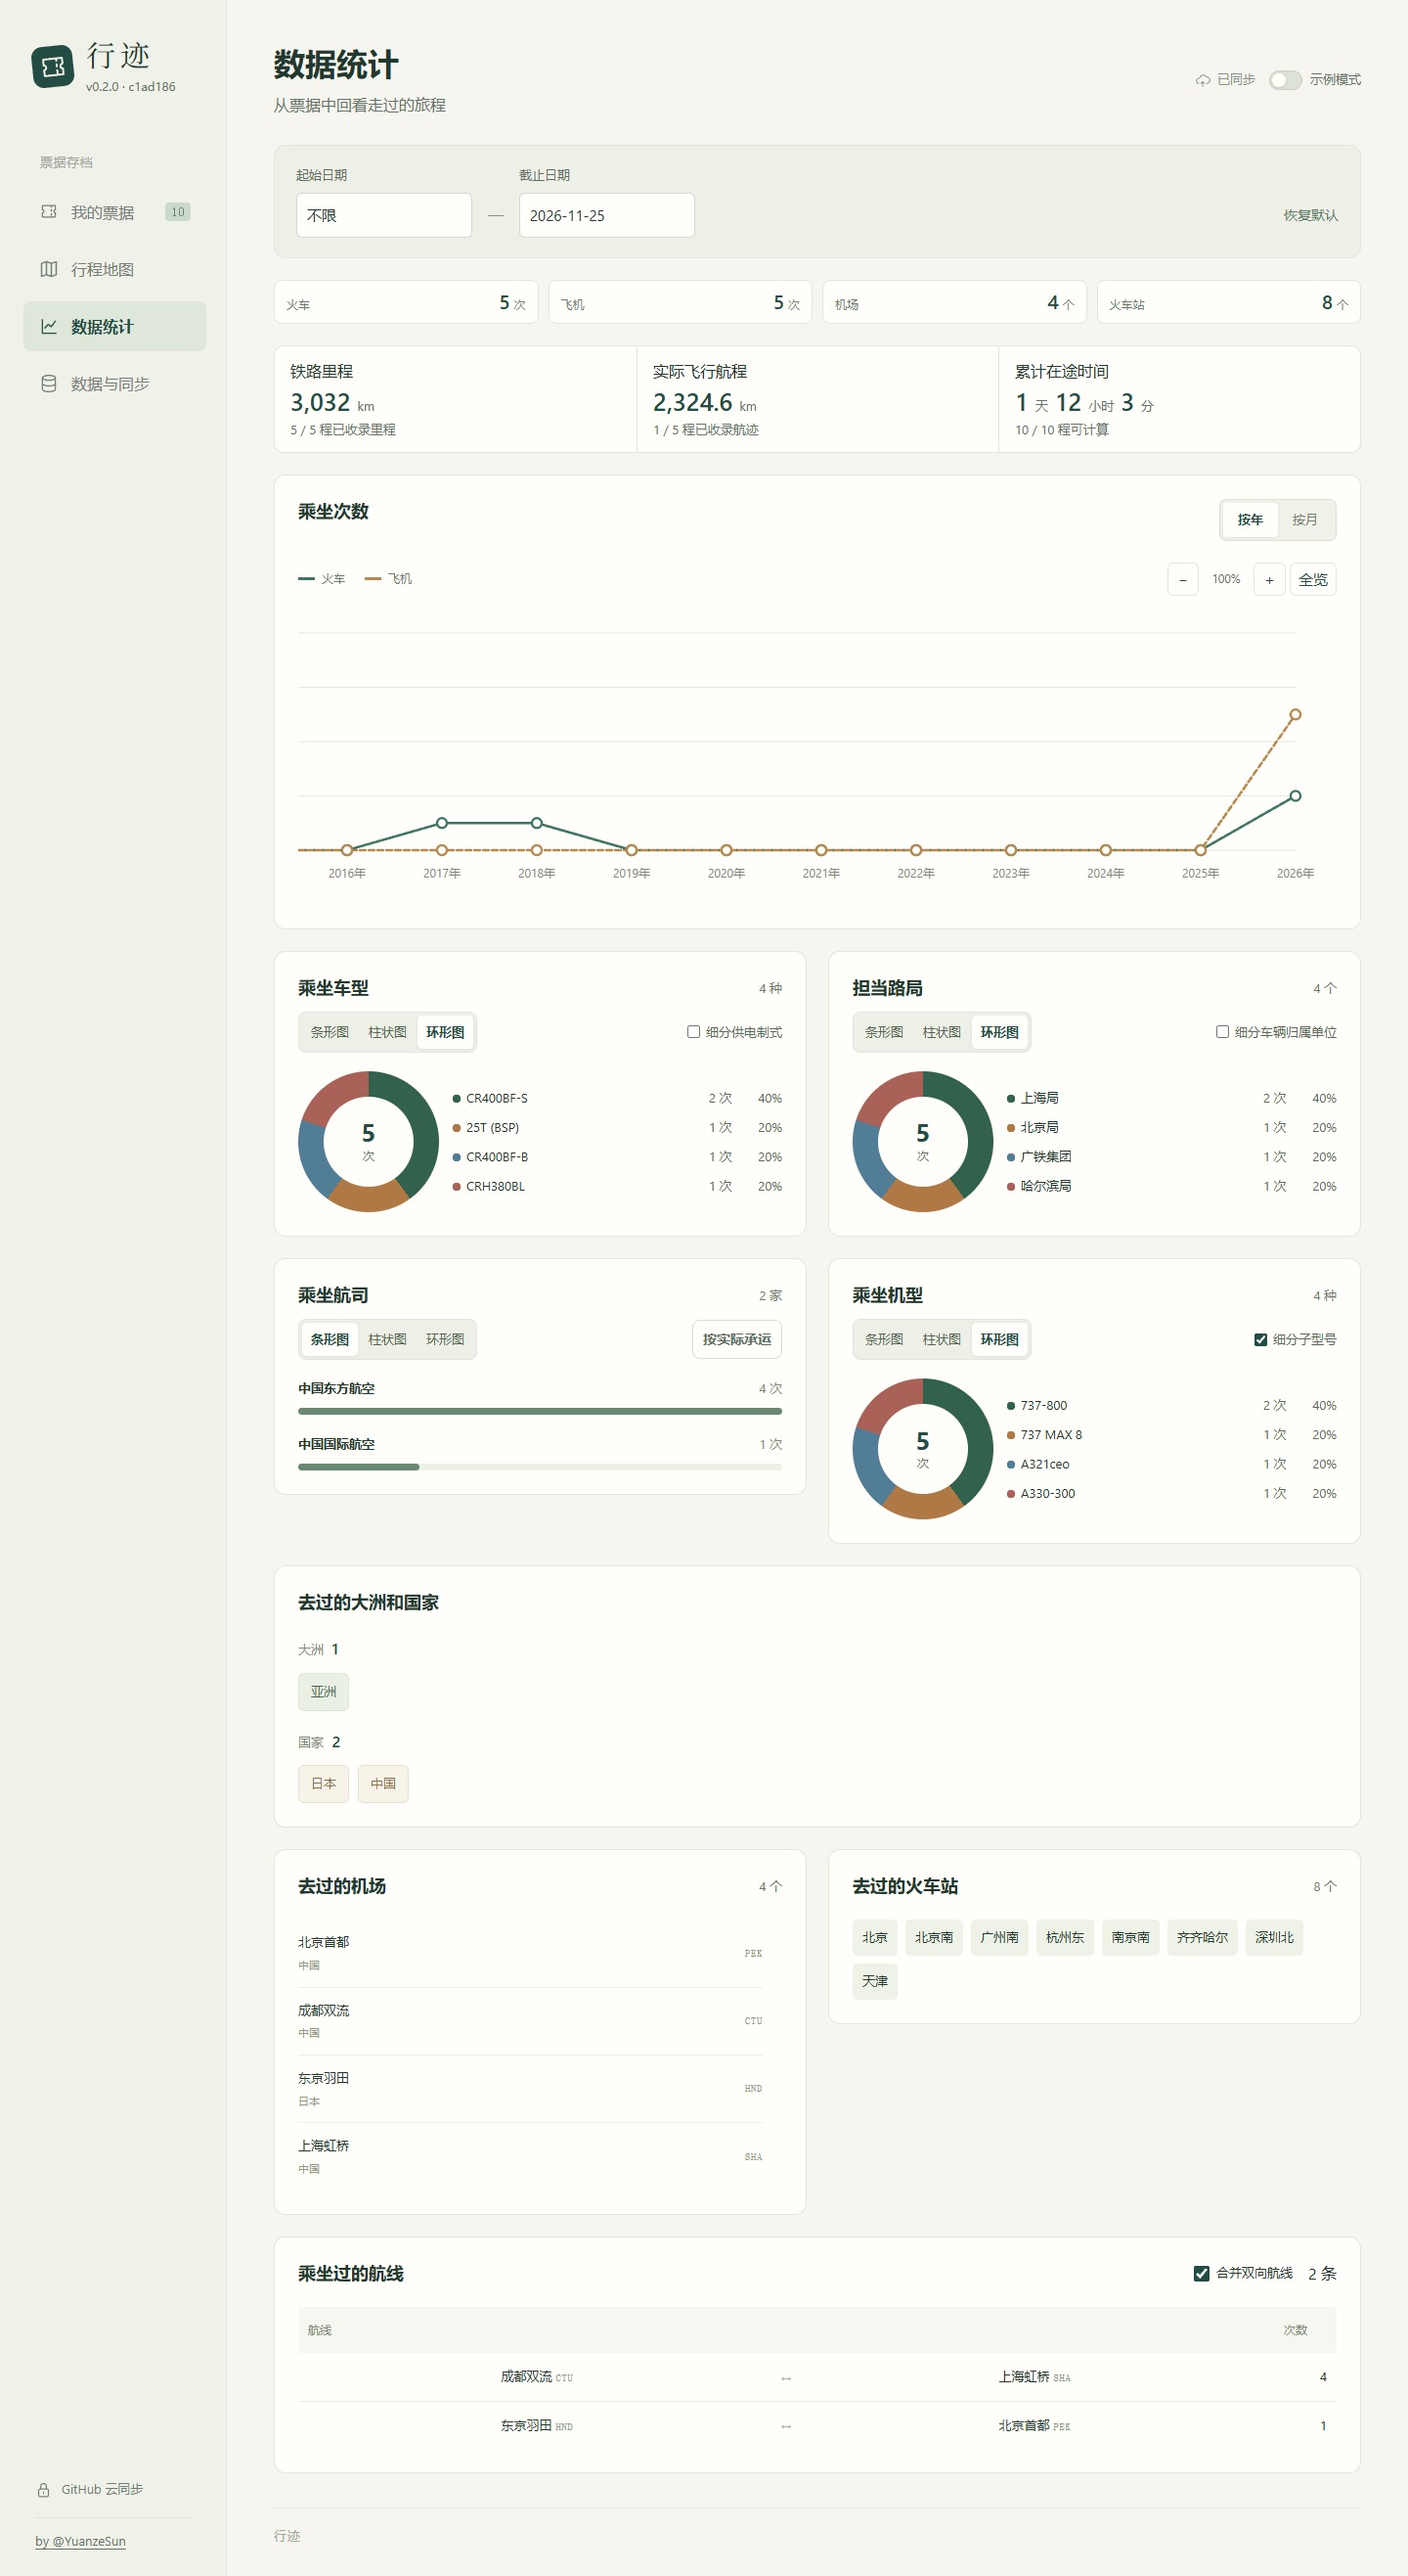
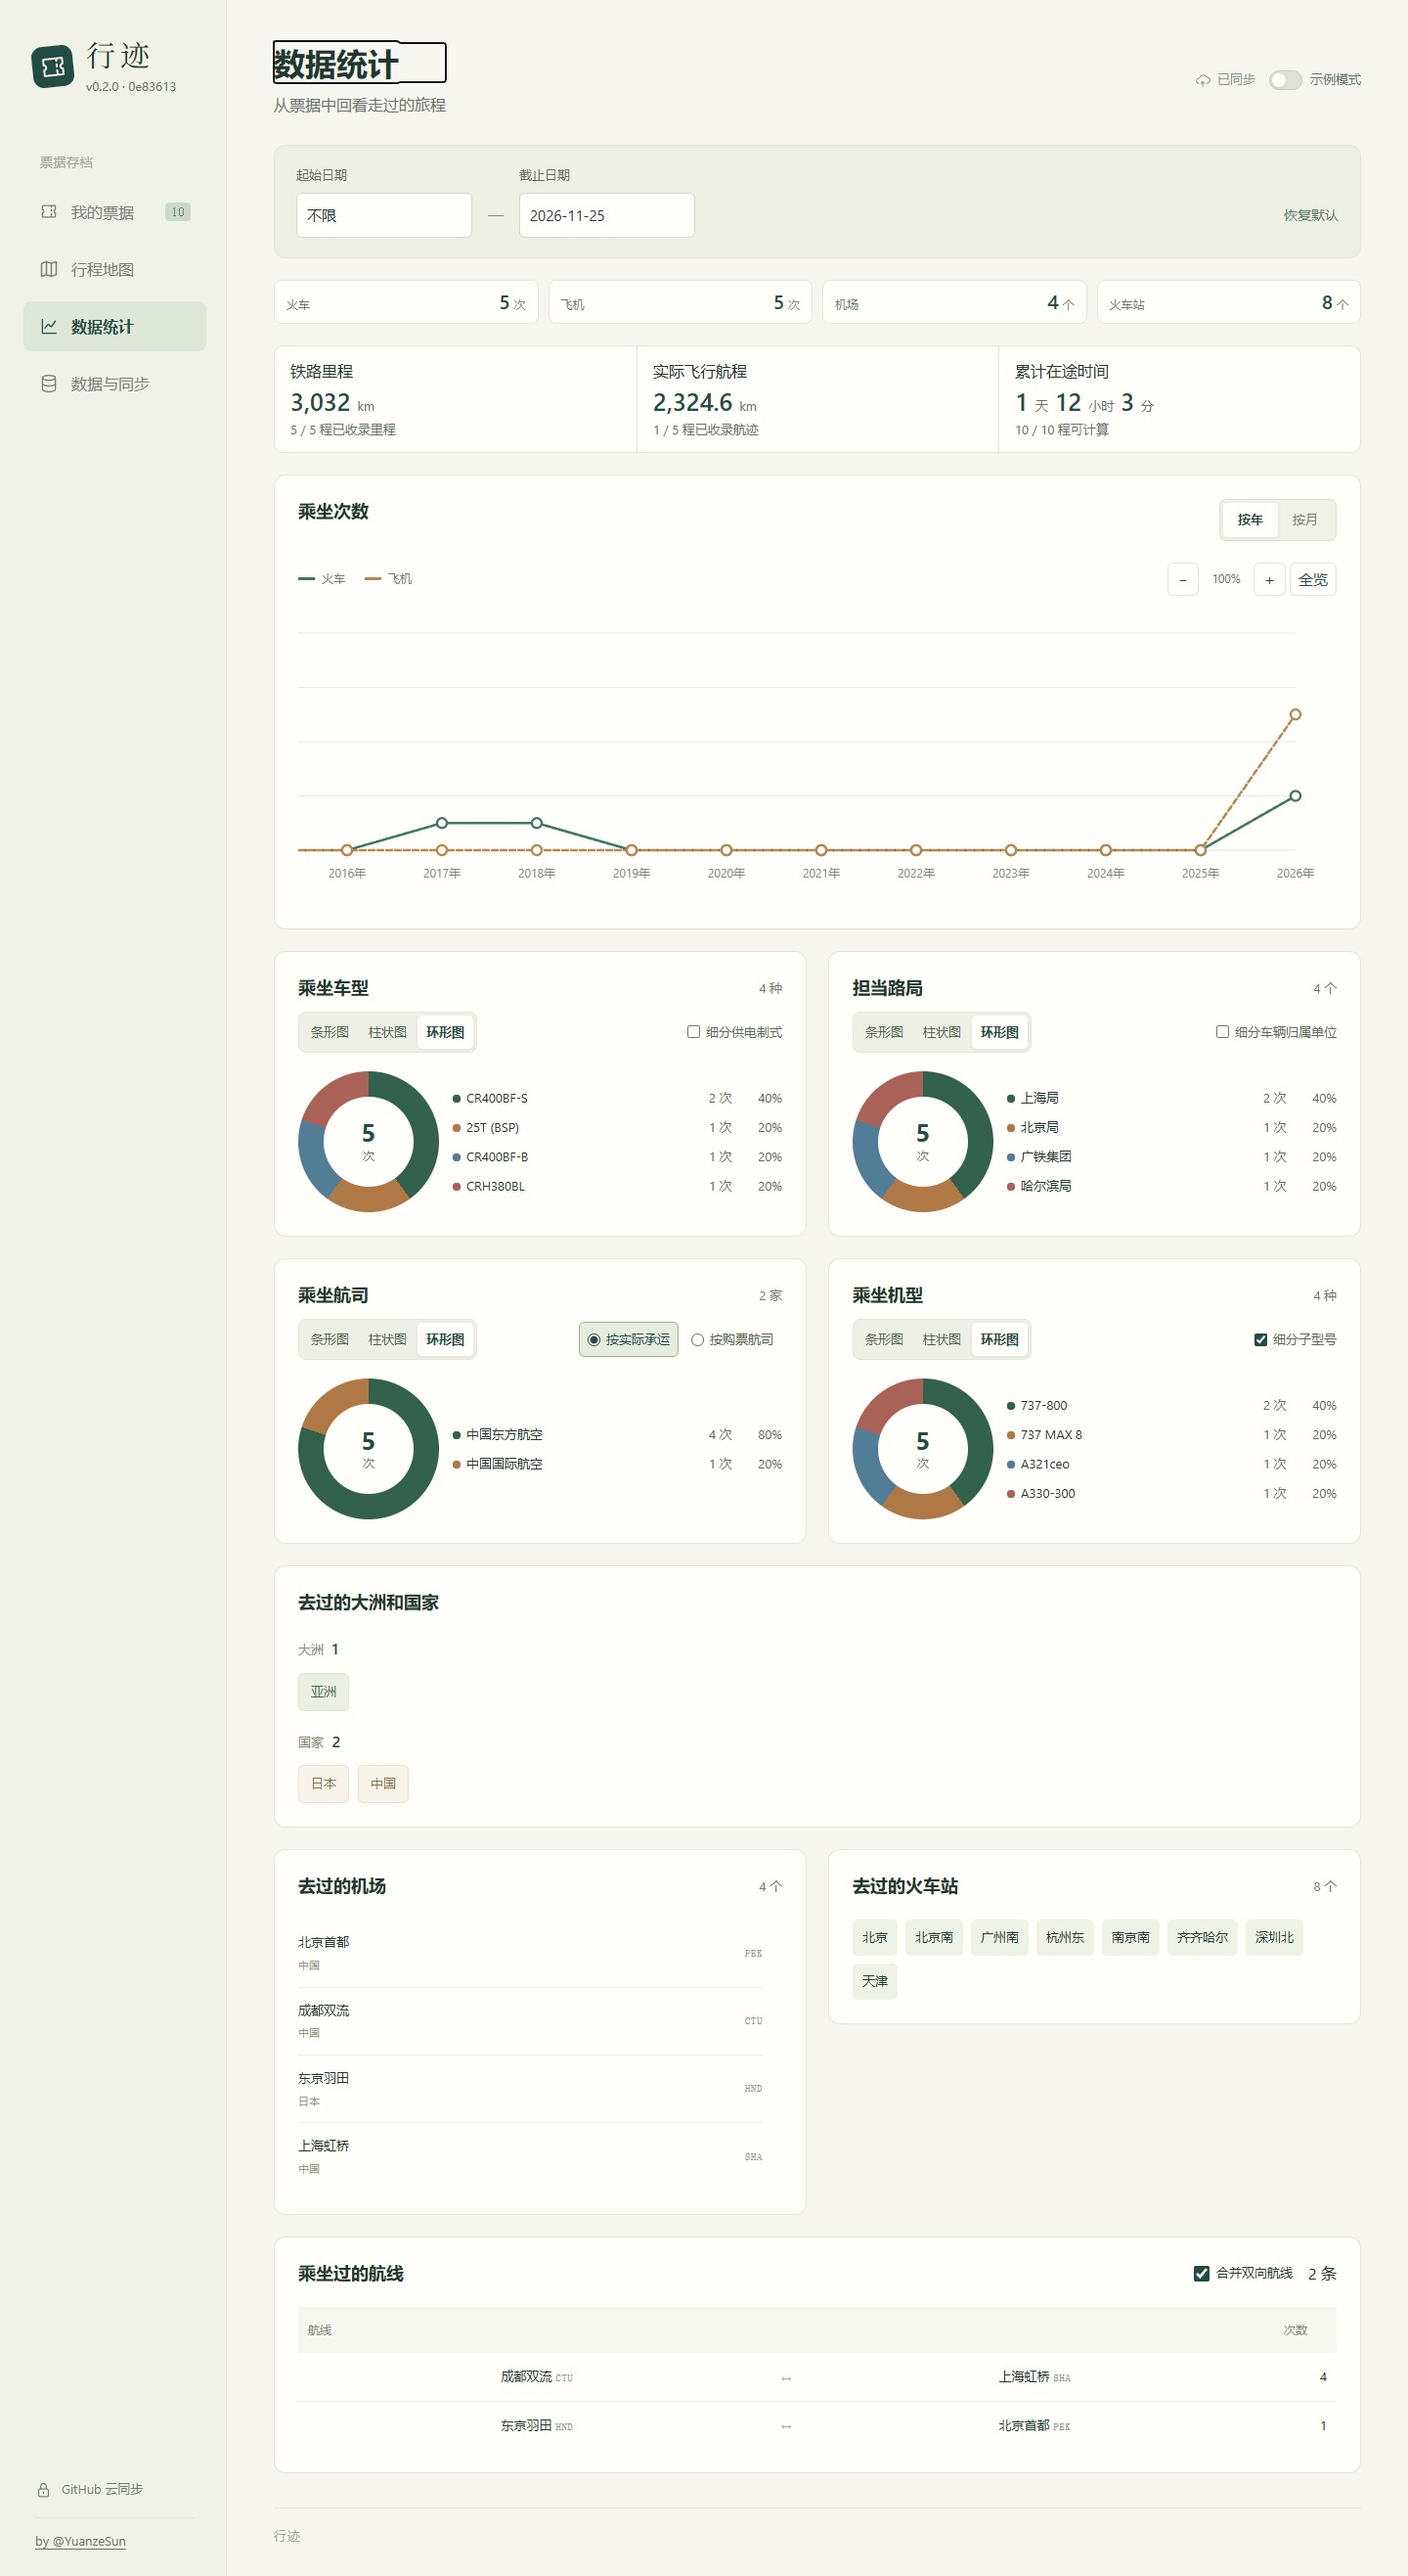
Show airline grouping choices and default to a ring chart

Changed region(s): [[0.2188, 0.4983, 0.4062, 0.5917], [0.4062, 0.4983, 0.5625, 0.5606]]

diff --git a/src/statistics.js b/src/statistics.js
@@ -17,7 +17,7 @@ const rankings = {
   'rail-models': { title: '乘坐车型', data: 'railModels', unit: '种', option: 'railPowerSupplies', label: '细分供电制式' },
   'rail-bureaus': { title: '担当路局', data: 'railBureaus', unit: '个', option: 'railUnits', label: '细分车辆归属单位' },
   aircraft: { title: '乘坐机型', data: 'aircraft', unit: '种', option: 'aircraftSubtypes', label: '细分子型号', unknown: 'unknownAircraft', unknownLabel: '未识别机型' },
-  airlines: { title: '乘坐航司', data: 'airlines', unit: '家', defaultView: 'bars', unknown: 'unknownAirlines', unknownLabel: '未识别航司' }
+  airlines: { title: '乘坐航司', data: 'airlines', unit: '家', unknown: 'unknownAirlines', unknownLabel: '未识别航司' }
 };
 
 export function mountStatistics(container, records, { options = {} } = {}) {
@@ -28,12 +28,11 @@ export function mountStatistics(container, records, { options = {} } = {}) {
   let series = [],chartCleanup=()=>{};
   const scrollPositions = { year: null, month: null };
   function rankingPanel(kind) {
-    const { title, data, unit, option, label, defaultView = 'donut', unknown, unknownLabel } = rankings[kind];
-    const rows = statistics[data], view = rankingCharts[kind] || defaultView;
+    const { title, data, unit, option, label, unknown, unknownLabel } = rankings[kind];
+    const rows = statistics[data], view = rankingCharts[kind] || 'donut';
     const chooser = Object.entries(rankingViews).map(([value, name]) => `<button type="button" data-stat-view="${value}" aria-pressed="${view === value}">${name}</button>`).join('');
-    const basis = options.marketingAirlines ? '按购票航司' : '按实际承运';
     const grouping = kind === 'airlines'
-      ? `<button type="button" class="button secondary small" data-stat-option="marketingAirlines" aria-label="${basis}，点击切换代码共享统计口径" title="切换代码共享统计口径">${basis}</button>`
+      ? `<fieldset class="statistics-airline-basis"><legend class="visually-hidden">共享航班统计口径</legend>${[['operating', '按实际承运'], ['marketing', '按购票航司']].map(([value, name]) => `<label><input type="radio" name="airline-basis" value="${value}" data-stat-option="marketingAirlines" ${options.marketingAirlines === (value === 'marketing') ? 'checked' : ''}/>${name}</label>`).join('')}</fieldset>`
       : option ? `<label><input type="checkbox" data-stat-option="${option}" ${options[option] ? 'checked' : ''}/>${label}</label>` : '';
     const unidentified = statistics[unknown] ? `<p class="fine-print">${unknownLabel} · ${statistics[unknown]} 次</p>` : '';
     return `<section class="statistics-panel statistics-ranking" data-stat-ranking="${kind}"><header><h2>${title}</h2><span>${rows.length} ${unit}</span></header><div class="statistics-ranking-controls"><div class="statistics-view-picker" role="group" aria-label="${title}图表样式">${chooser}</div>${grouping}</div><div data-stat-plot>${rankingChartMarkup(title, rows, view)}</div>${unidentified}</section>`;
@@ -137,17 +136,16 @@ export function mountStatistics(container, records, { options = {} } = {}) {
     else render();
   }
   const visibility = () => { if (doc.visibilityState === 'visible') refreshDay(); };
-  function setRankingOption(key, value) {
-    options[key] = value;
-    const scroll = container.querySelector('.statistics-chart-scroll');
-    if (scroll) scrollPositions[options.period] = scroll.scrollLeft;
-    render();
-    container.querySelector(`[data-stat-option="${key}"]`).focus();
-  }
   const change = event => {
     const target = event.target;
-    if (target.matches('[data-stat-option]') && ['railUnits','railPowerSupplies','aircraftSubtypes'].includes(target.dataset.statOption)) {
-      setRankingOption(target.dataset.statOption, target.checked); return;
+    if (target.matches('[data-stat-option]')) {
+      const key = target.dataset.statOption, radio = target.type === 'radio';
+      options[key] = radio ? target.value === 'marketing' : target.checked;
+      const scroll = container.querySelector('.statistics-chart-scroll');
+      if (scroll) scrollPositions[options.period] = scroll.scrollLeft;
+      render();
+      container.querySelector(`[data-stat-option="${key}"]${radio ? ':checked' : ''}`).focus({ preventScroll: true });
+      return;
     }
     else if (target.matches('[data-stat-merge-routes]')) {
       options.mergeDirections=target.checked;
@@ -159,7 +157,6 @@ export function mountStatistics(container, records, { options = {} } = {}) {
   const click = event => {
     const date = event.target.closest('[data-stat-date]');
     if (date) { openDate(date); return; }
-    if (event.target.closest('[data-stat-option="marketingAirlines"]')) { setRankingOption('marketingAirlines', !options.marketingAirlines); return; }
     const view = event.target.closest('[data-stat-view]');
     if (view) {
       if (view.getAttribute('aria-pressed') === 'true') return;

diff --git a/tests/statistics.test.js b/tests/statistics.test.js
@@ -154,20 +154,28 @@ test('the airline ranking merges recognized aliases and switches between operati
   const dom = new JSDOM('<div id="root"></div>'), root = dom.window.document.querySelector('#root');
   const cleanup = mountStatistics(root, rows, { options: { ...options } });
   const panel = () => root.querySelector('[data-stat-ranking="airlines"]');
-  const toggle = () => panel().querySelector('[data-stat-option="marketingAirlines"]');
+  const basis = value => panel().querySelector(`[name="airline-basis"][value="${value}"]`);
   assert.equal(panel().querySelector('header span').textContent, '4 家');
   assert.match(panel().querySelector('li').textContent, /中国国际航空6 次/);
   assert.match(panel().textContent, /未识别航司 · 2 次/);
-  panel().querySelector('[data-stat-view="donut"]').click();
+  assert.equal(panel().querySelector('[data-stat-view][aria-pressed="true"]').dataset.statView, 'donut');
   assert.equal(panel().querySelector('.statistics-ring strong').textContent, '11');
-  assert.equal(toggle().textContent, '按实际承运');
-  toggle().click();
-  assert.equal(toggle().textContent, '按购票航司');
-  assert.equal(dom.window.document.activeElement, toggle());
+  assert.equal(basis('operating').closest('label').textContent, '按实际承运');
+  assert.equal(basis('marketing').closest('label').textContent, '按购票航司');
+  assert.equal(basis('operating').checked, true);
+  assert.equal(basis('marketing').checked, false);
+  basis('marketing').click();
+  assert.equal(basis('operating').checked, false);
+  assert.equal(basis('marketing').checked, true);
+  assert.equal(dom.window.document.activeElement, basis('marketing'));
   assert.equal(panel().querySelector('.statistics-ring strong').textContent, '12');
   assert.match(panel().textContent, /未识别航司 · 1 次/);
-  toggle().click();
-  assert.equal(panel().querySelector('.statistics-ring strong').textContent, '11');
+  panel().querySelector('[data-stat-view="bars"]').click();
+  basis('operating').click();
+  assert.equal(basis('operating').checked, true);
+  assert.equal(basis('marketing').checked, false);
+  assert.equal(panel().querySelector('[data-stat-view][aria-pressed="true"]').dataset.statView, 'bars');
+  assert.match(panel().textContent, /未识别航司 · 2 次/);
   cleanup(); dom.window.close();
 });
 

diff --git a/src/styles.css b/src/styles.css
@@ -470,6 +470,10 @@ input::-webkit-datetime-edit-fields-wrapper{padding:0}
 .statistics-ranking-controls{display:flex;align-items:center;justify-content:space-between;flex-wrap:wrap;gap:8px 14px;margin-bottom:19px}
 .statistics-ranking-controls>label{display:flex;align-items:center;gap:6px;min-height:32px;font-size:13px;color:#596c58}
 .statistics-ranking-controls input{accent-color:var(--green);margin:0}
+.statistics-airline-basis{display:flex;flex-wrap:wrap;gap:4px;min-width:0;padding:0;margin:0;border:0}
+.statistics-airline-basis label{display:flex;align-items:center;gap:6px;min-height:36px;padding:4px 8px;border:1px solid transparent;border-radius:6px;color:#52654e;font-size:13px;white-space:nowrap;cursor:pointer}
+.statistics-airline-basis label:has(:checked){border-color:#9faf96;background:#e6ede0;color:var(--green)}
+.statistics-airline-basis label:has(:focus-visible){outline:2px solid #638363;outline-offset:2px}
 .statistics-view-picker{display:inline-flex;max-width:100%;gap:2px;padding:3px;border:1px solid var(--line);border-radius:8px;background:#eef0e8}
 .statistics-view-picker button{min-height:34px;padding:4px 9px;border:0;border-radius:5px;background:transparent;color:#52654e;font:inherit;font-size:13px;line-height:1.3}
 .statistics-view-picker button[aria-pressed=true]{background:var(--surface);color:var(--green);font-weight:650;box-shadow:0 1px 3px #263e2218}
@@ -500,7 +504,7 @@ input::-webkit-datetime-edit-fields-wrapper{padding:0}
 .statistics-ring-other[open] summary .statistics-ring-name::before{transform:rotate(90deg)}
 .statistics-ring-other ul{max-height:160px;overflow:auto;border-left:1px solid var(--line);margin-left:3px;padding-left:10px}
 .statistics-ring-other li{grid-template-columns:minmax(0,1fr) auto auto}
-@media(pointer:coarse){.statistics-view-picker button,.statistics-ranking-controls>label{min-height:44px}}
+@media(pointer:coarse){.statistics-view-picker button,.statistics-ranking-controls>label,.statistics-airline-basis label{min-height:44px}}
 .statistics-panel h3{font-size:13px;font-weight:500;color:#7b8872;margin:18px 0 12px}
 .statistics-panel h3>span{font-size:16px;color:var(--green);margin-left:5px}
 .statistics-chips{list-style:none;display:flex;flex-wrap:wrap;gap:9px;padding:0;margin:0}
